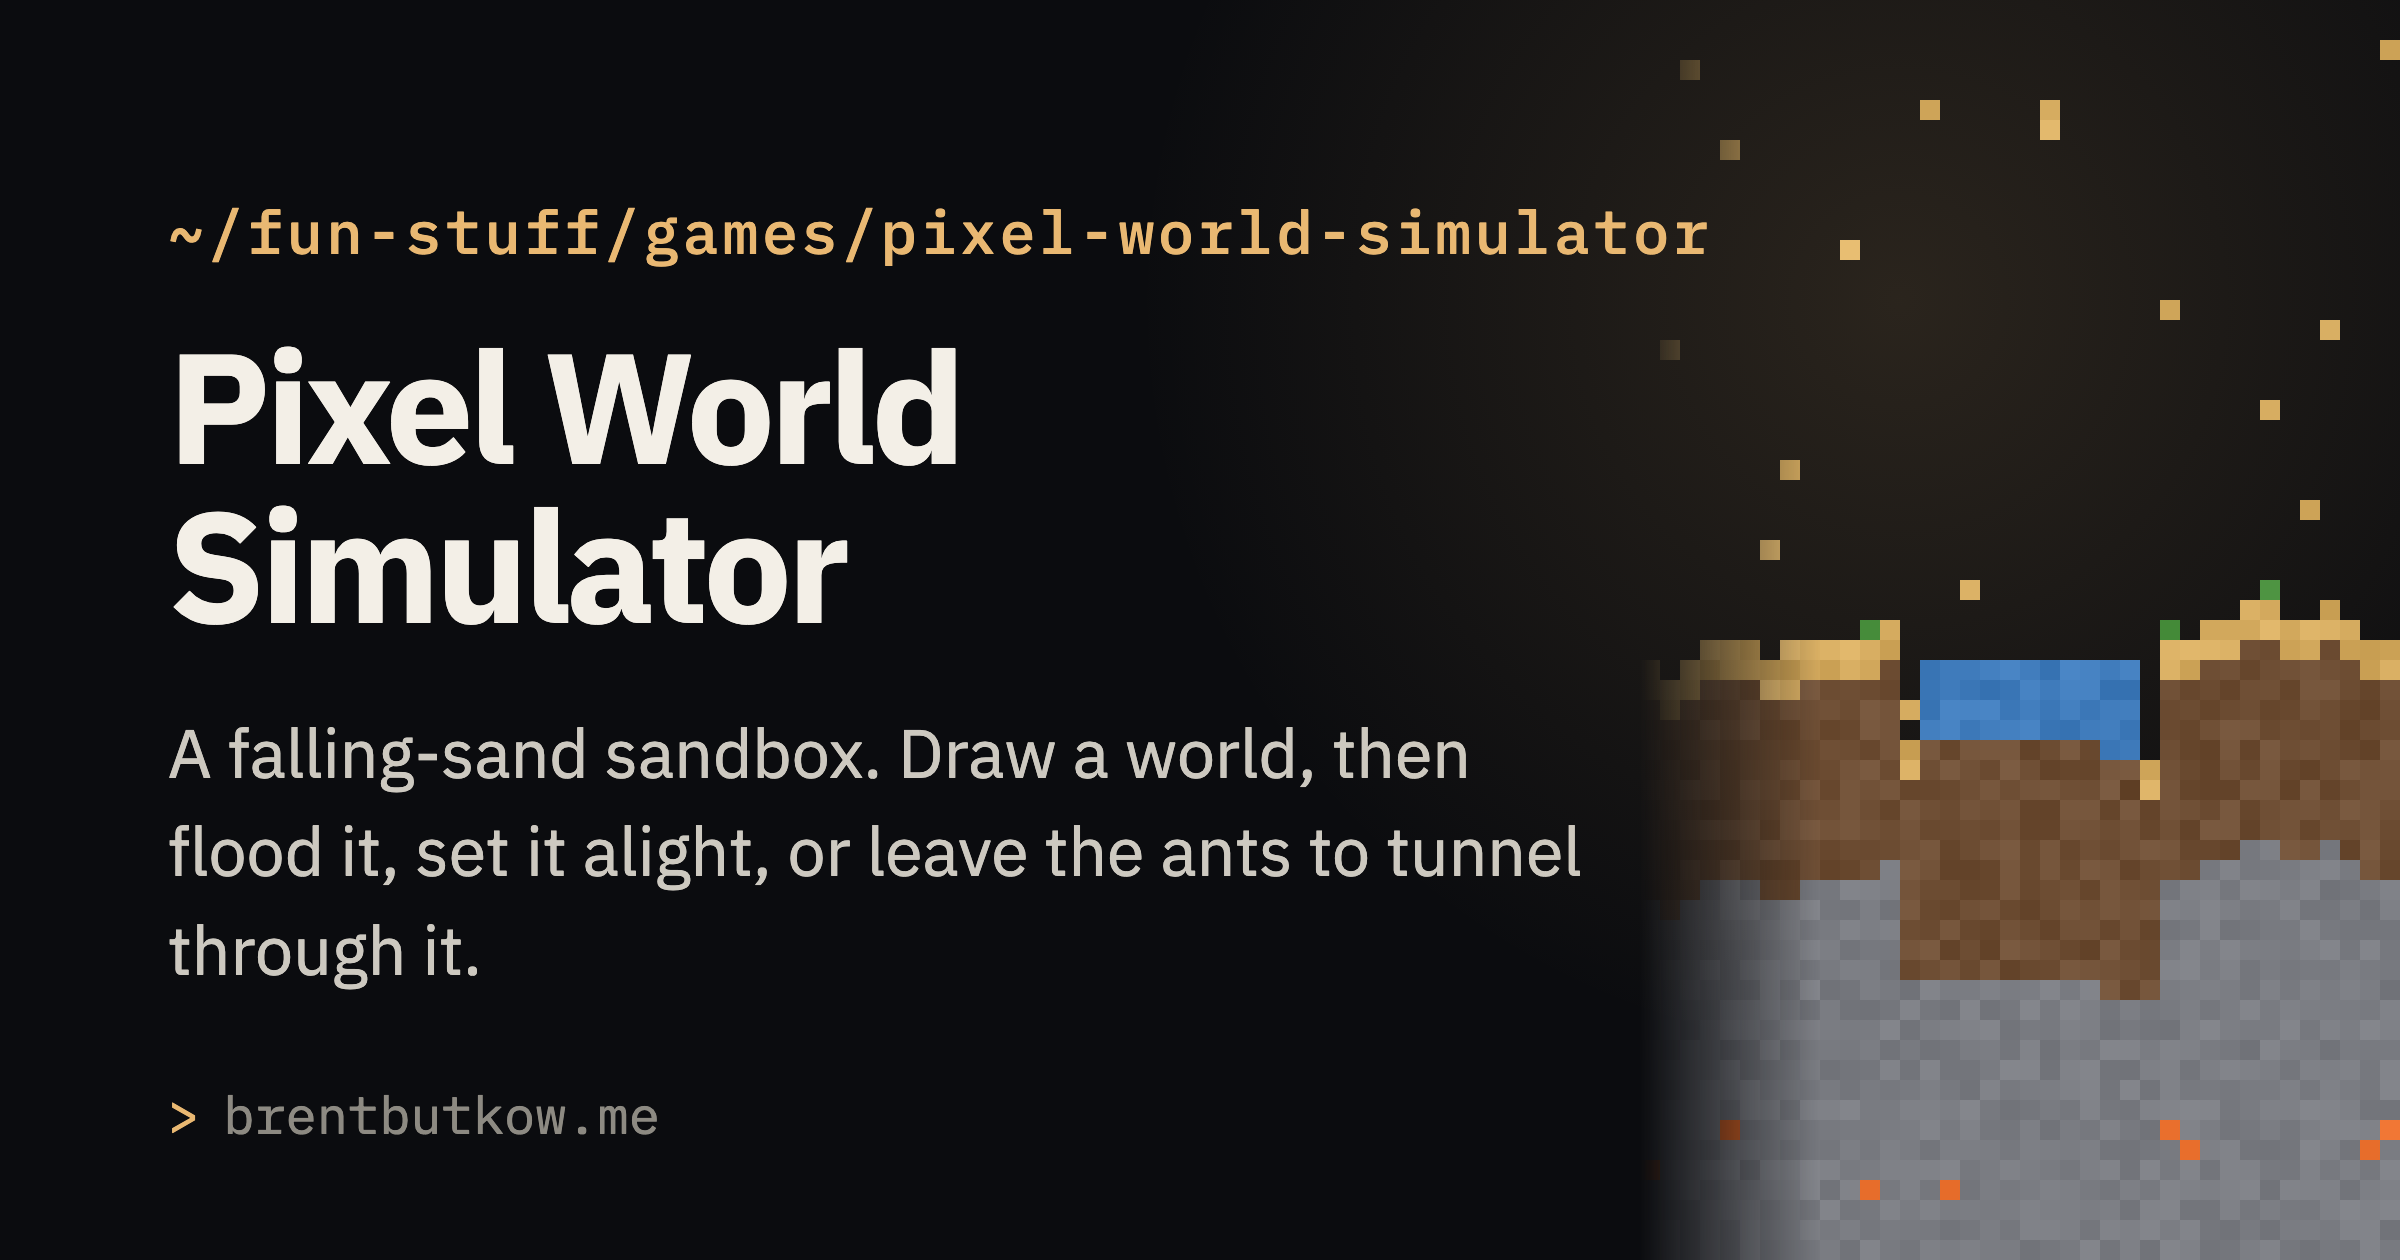
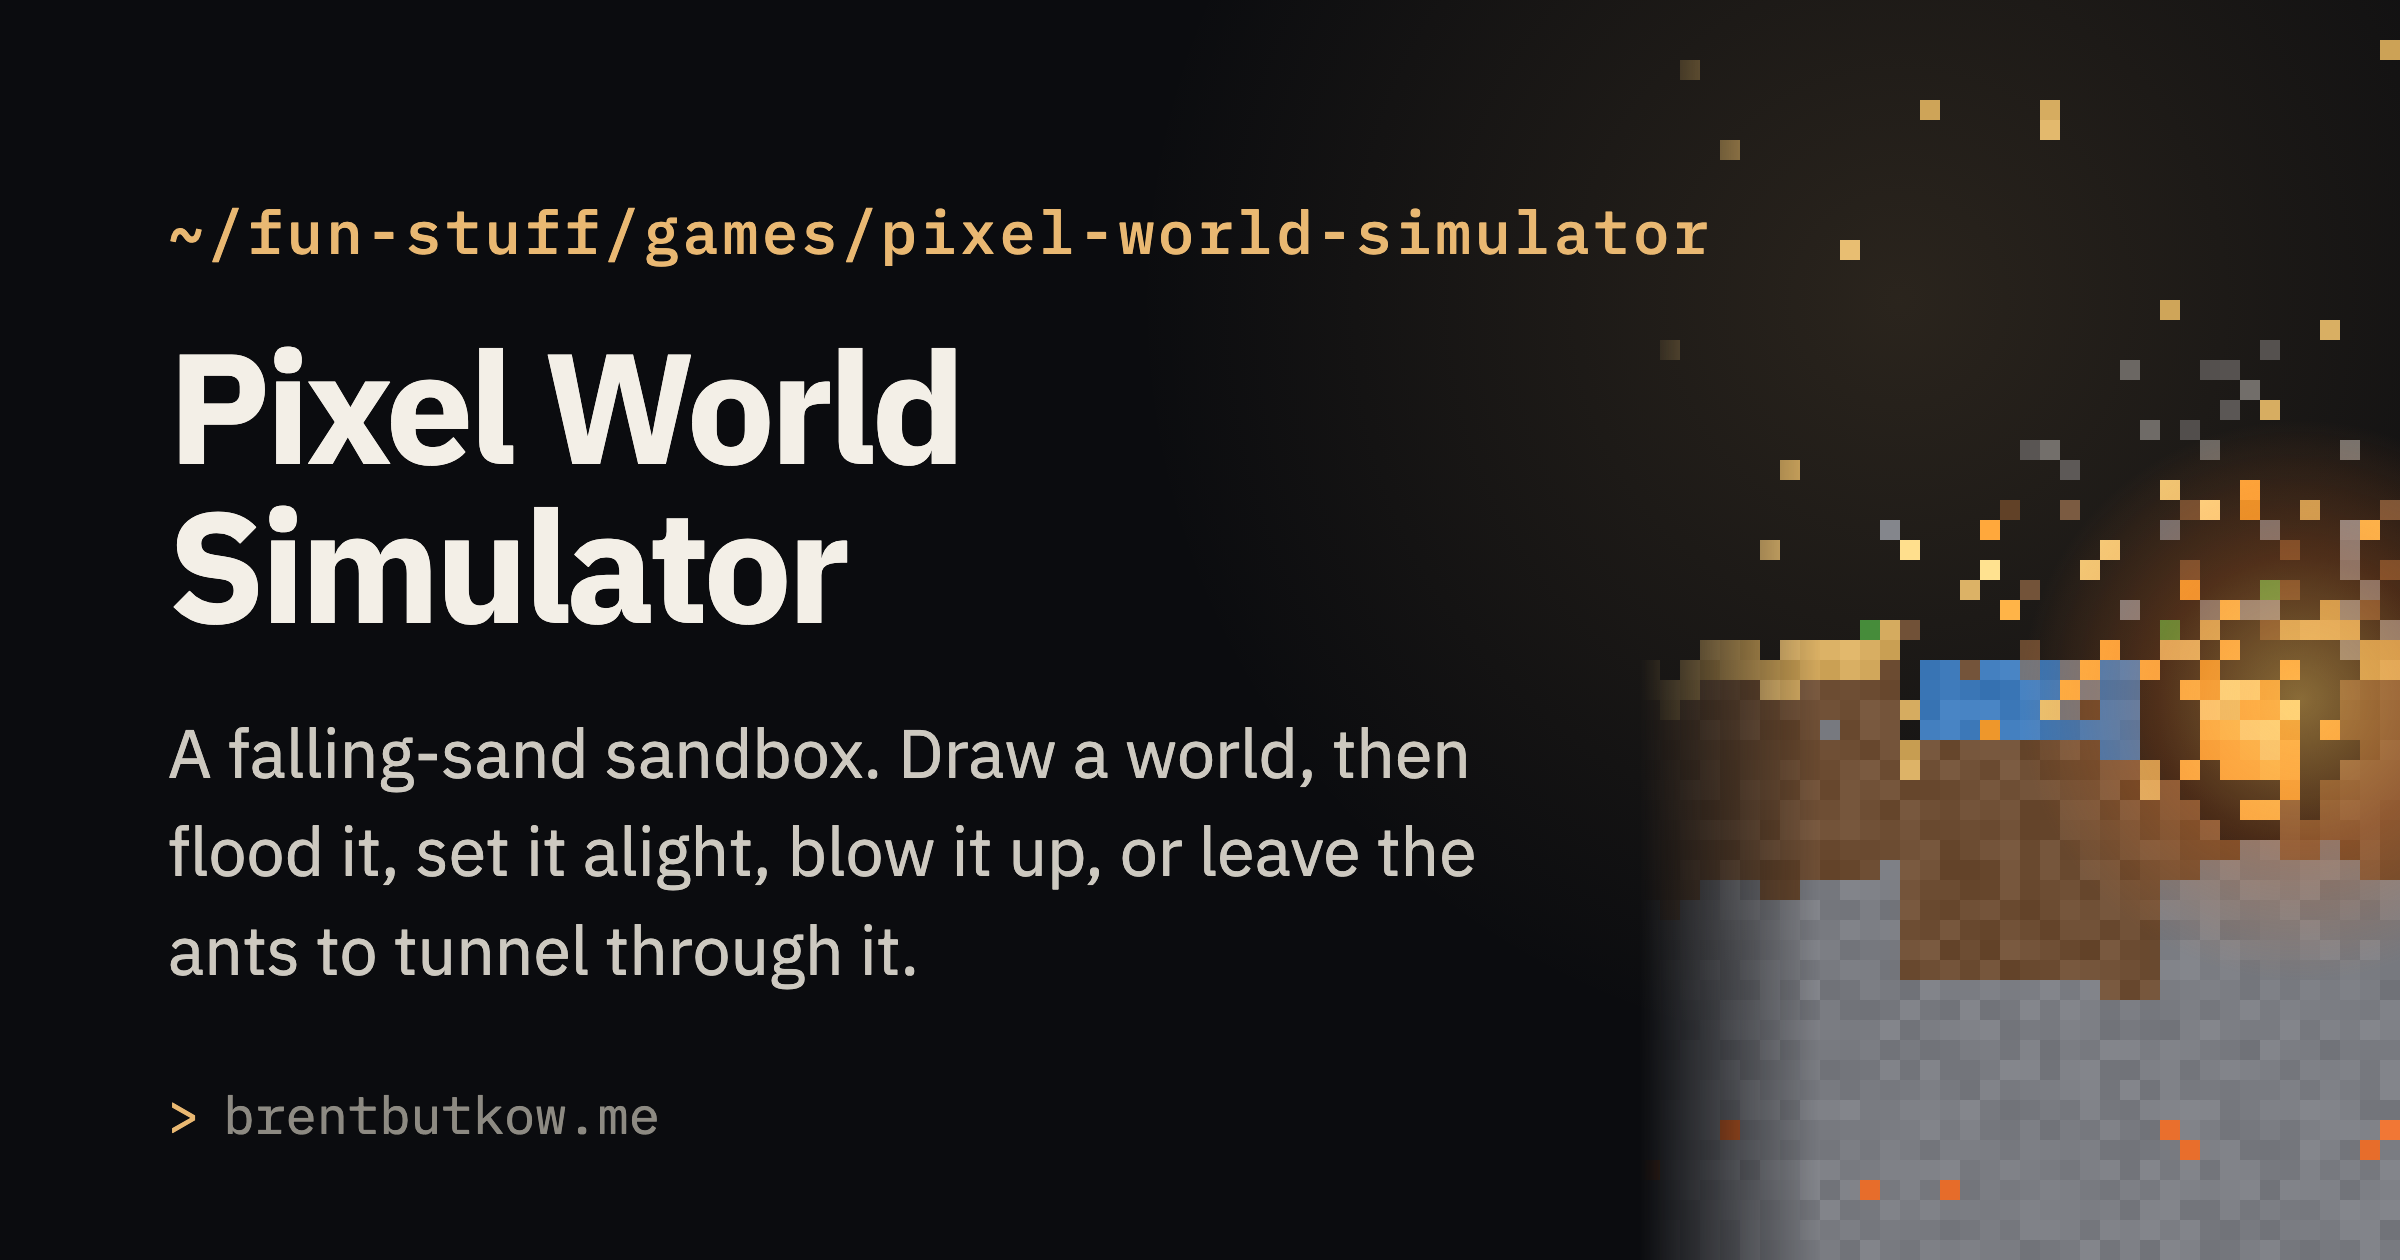
feat: add blast effect to Open Graph card for Pixel World Simulator

diff --git a/scripts/og/og-template.html b/scripts/og/og-template.html
@@ -123,6 +123,21 @@
            pushed the tag into the brand line pinned at the bottom. */
         max-width: 21em;
       }
+      /* The bloom the renderer composites over anything alight. A blurred pass in the sim, a soft radial here
+         — sitting over the crater in the slab, well clear of the text column. */
+      .blast {
+        position: absolute;
+        left: 1000px;
+        top: 200px;
+        width: 300px;
+        height: 300px;
+        background: radial-gradient(
+          circle,
+          rgba(255, 196, 92, 0.5) 0%,
+          rgba(240, 120, 40, 0.26) 34%,
+          transparent 66%
+        );
+      }
       .strata {
         position: absolute;
         top: 0;
@@ -140,6 +155,7 @@
       <div class="glow"></div>
       <div class="stars" id="stars"></div>
       <canvas class="strata" id="strata" width="38" height="63"></canvas>
+      <div class="blast" id="blast" hidden></div>
       <div class="path" id="path"></div>
       <div class="title" id="title"></div>
       <div class="subtitle" id="subtitle"></div>
@@ -208,6 +224,10 @@
         const WATER = [62, 122, 186]
         const LAVA = [226, 104, 38]
         const PLANT = [78, 148, 66]
+        const FIRE = [255, 168, 60]
+        const EMBER = [255, 214, 132]
+        const SMOKE = [116, 112, 108]
+        const ASH = [92, 88, 86]
 
         // Deterministic, so regenerating the card gives the same world back.
         let s2 = 1337
@@ -253,6 +273,41 @@
           if (!pooled && r2() < 0.14) put(x, top - 1, PLANT, 14)
           if (r2() < 0.1) put(x, H - 4 - Math.round(r2() * 3), LAVA, 20)
         }
+
+        // Something just went off in the right-hand shoulder of the ground: a charge takes a bite out of the
+        // terrain, throws what it removed, and leaves the hole burning. The whole card is one frame of that.
+        const bx = 30
+        const by = 36
+        const CRATER = 6
+        for (let dy = -CRATER; dy <= CRATER; dy++) {
+          for (let dx = -CRATER; dx <= CRATER; dx++) {
+            const away = Math.sqrt(dx * dx + dy * dy)
+            // A ragged rim rather than a compass circle — a clean disc is the shape that always reads as a bug.
+            if (away > CRATER - r2() * 1.8) continue
+            const x = bx + dx
+            const y = by + dy
+            if (x < 0 || x >= W || y < 0 || y >= H) continue
+            ctx.clearRect(x, y, 1, 1)
+            // The bottom of the hole is still alight, the rim only scorched.
+            if (away < CRATER * 0.45) put(x, y, r2() < 0.35 ? EMBER : FIRE, 22)
+            else if (away < CRATER * 0.7 && r2() < 0.3) put(x, y, FIRE, 26)
+          }
+        }
+
+        // What the blast threw: debris on its way out, embers above it, and smoke taking over higher up.
+        for (let i = 0; i < 90; i++) {
+          const angle = -Math.PI * r2()
+          const reach = CRATER + r2() * 16
+          const x = Math.round(bx + Math.cos(angle) * reach)
+          const y = Math.round(by + Math.sin(angle) * reach * 0.85)
+          if (x < 0 || x >= W || y < 0 || y >= H) continue
+          const height = by - y
+          if (height > 12) put(x, y, r2() < 0.5 ? SMOKE : ASH, 10)
+          else if (r2() < 0.4) put(x, y, r2() < 0.5 ? EMBER : FIRE, 24)
+          else put(x, y, r2() < 0.5 ? DIRT : STONE, 14)
+        }
+
+        document.getElementById('blast').hidden = false
       }
 
       if (variant.stars) {
